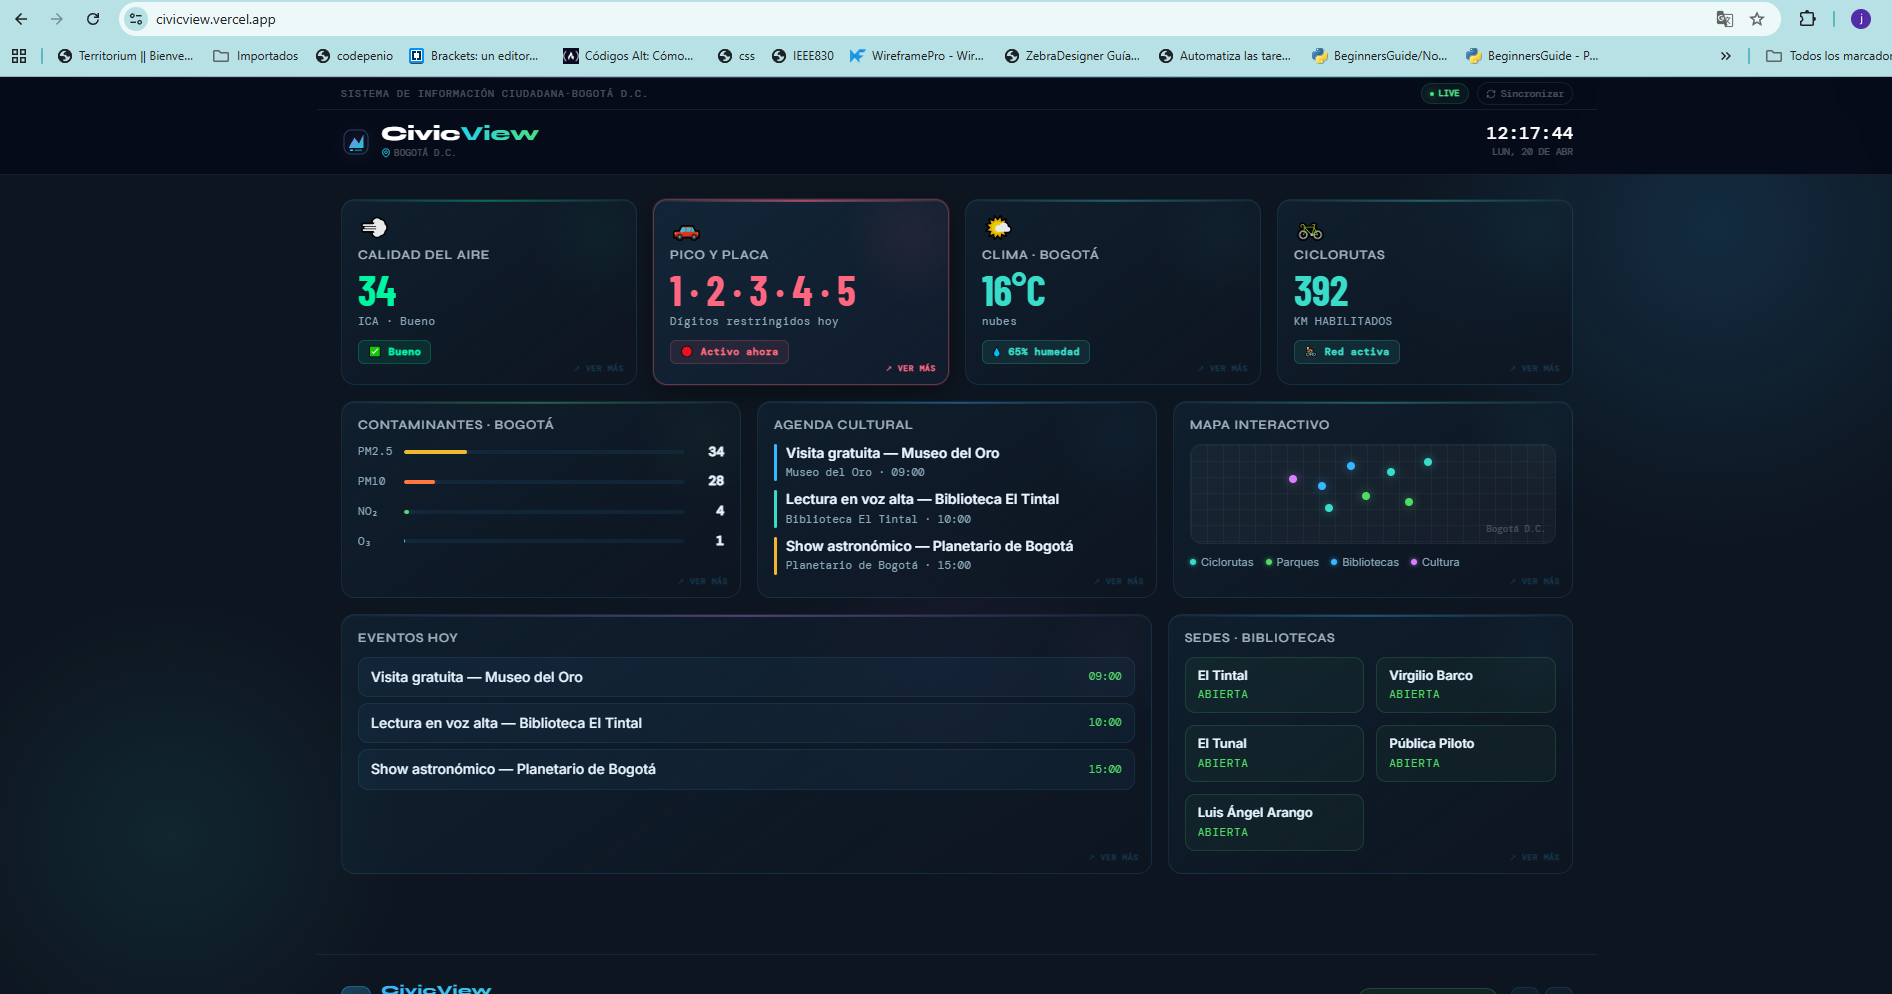
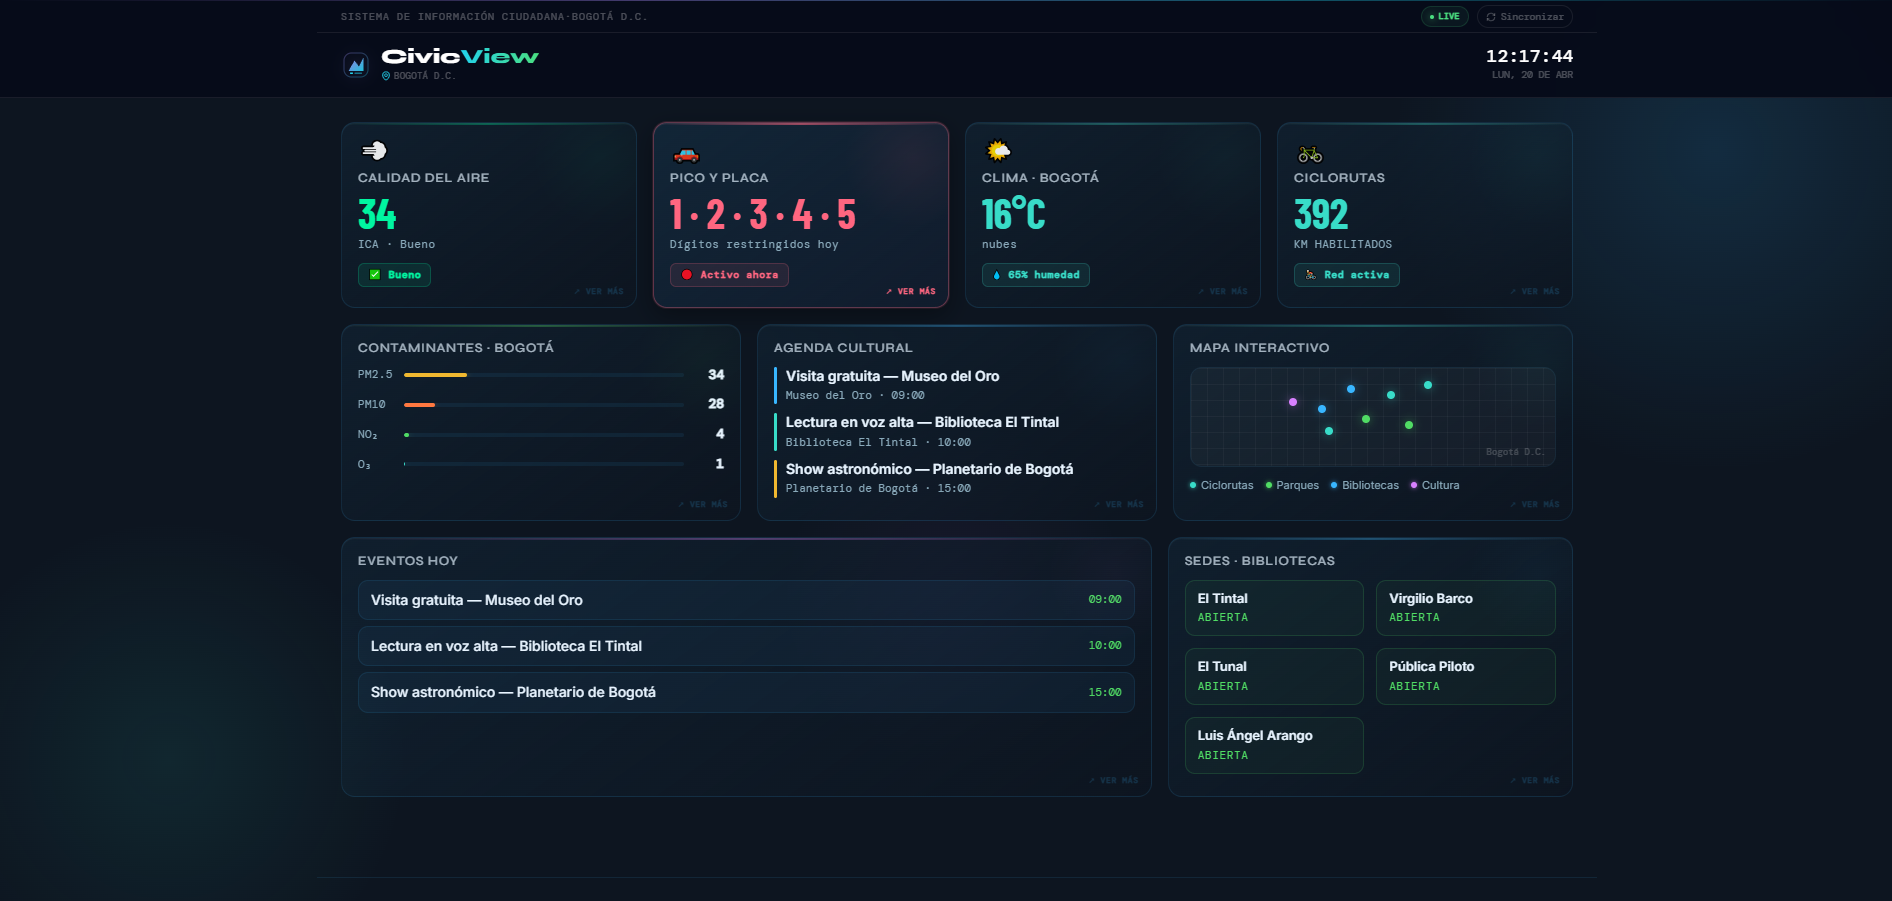
Crea la función principal del programa

diff --git a/src/services/airQualityService.js b/src/services/airQualityService.js
@@ -16,7 +16,7 @@ class AirQualityService {
       }
 
       console.log('💨 Obteniendo calidad del aire desde backend...')
-      const { data } = await axios.get(`${BACKEND_URL}/air-quality`, { timeout: 10_000 })
+      const { data } = await axios.get(`${BACKEND_URL}/air-quality`, { timeout: 60_000 })
 
       const result = { ...data, timestamp: getCurrentTimestamp() }
       this.saveToCache(result)

diff --git a/src/services/eventsService.js b/src/services/eventsService.js
@@ -53,7 +53,7 @@ export async function getEvents(forceRefresh = false) {
   }
 
   console.log('🎭 Obteniendo eventos desde backend...')
-  const { data } = await axios.get(`${BACKEND_URL}/events`, { timeout: 15_000 })
+  const { data } = await axios.get(`${BACKEND_URL}/events`, { timeout: 60_000 })
   const events = data.events || []
 
   // Log de fuentes para debug

diff --git a/src/services/weatherService.js b/src/services/weatherService.js
@@ -16,7 +16,7 @@ class WeatherService {
       }
 
       console.log('☁️ Obteniendo clima desde backend...')
-      const { data } = await axios.get(`${BACKEND_URL}/weather`, { timeout: 10_000 })
+      const { data } = await axios.get(`${BACKEND_URL}/weather`, { timeout: 60_000 })
 
       // Guardar en caché local
       const result = { ...data, timestamp: getCurrentTimestamp() }